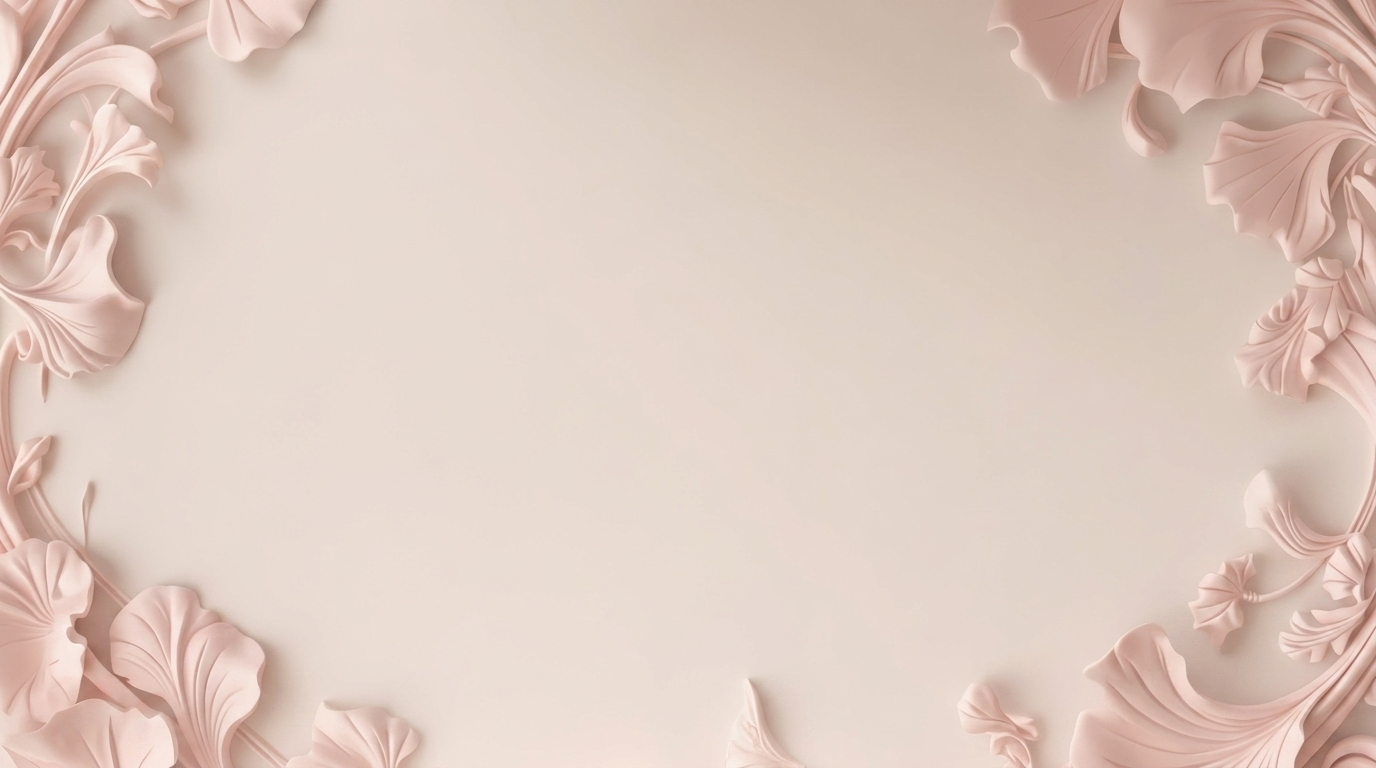
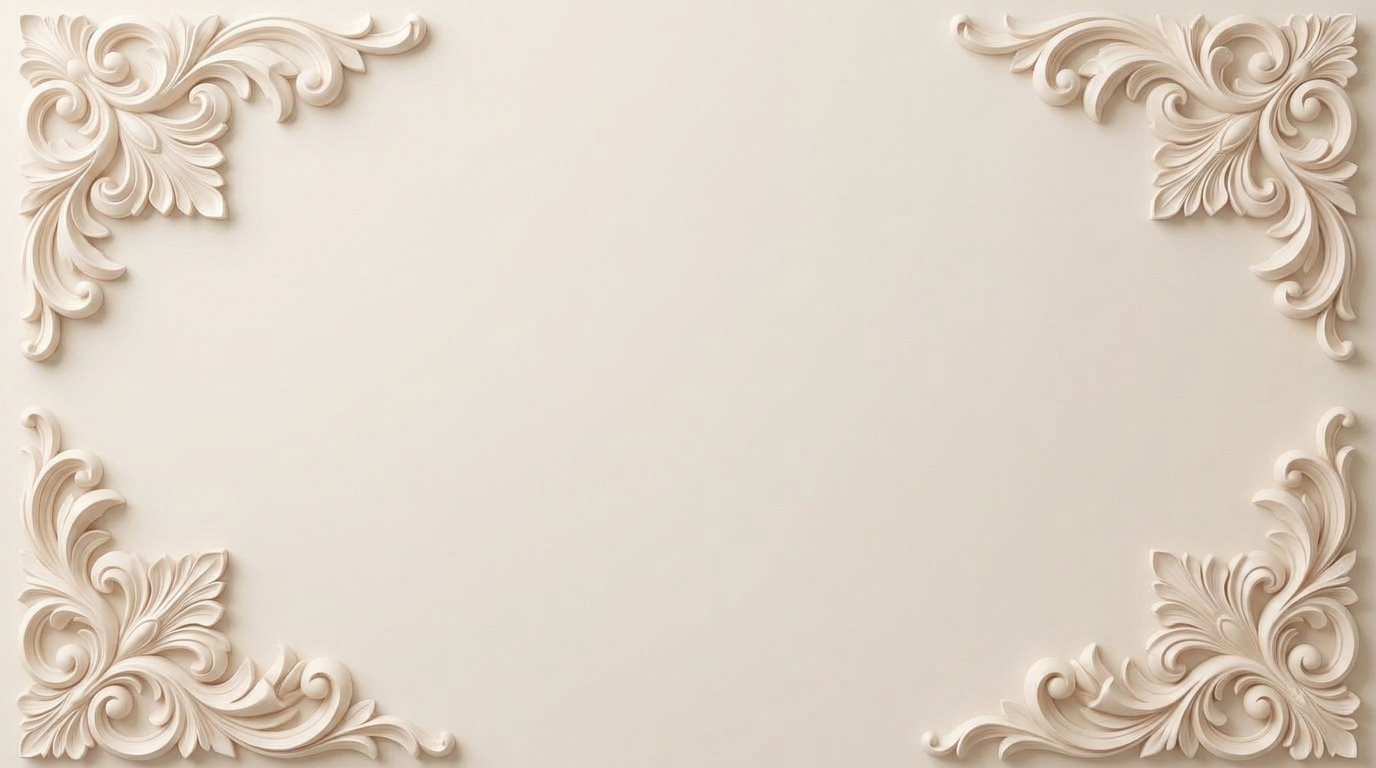
fix: background, content

Changed region(s): [[0.3438, 0.0, 1.0, 1.0], [0.0, 0.0, 0.3438, 1.0], [0.5312, 0.875, 0.5938, 1.0]]

diff --git a/components/InvitationCard.tsx b/components/InvitationCard.tsx
@@ -1,65 +1,99 @@
 'use client';
 import { motion } from 'framer-motion';
+import { useState, useEffect } from 'react';
 
 interface InvitationProps {
   onOpenRsvp: () => void;
 }
 
 export default function InvitationCard({ onOpenRsvp }: InvitationProps) {
+  const [windowDimensions, setWindowDimensions] = useState({ width: 0, height: 0 });
+
+  useEffect(() => {
+    const handleResize = () => {
+      setWindowDimensions({ width: window.innerWidth, height: window.innerHeight });
+    };
+    
+    handleResize();
+    window.addEventListener('resize', handleResize);
+    return () => window.removeEventListener('resize', handleResize);
+  }, []);
+
   return (
     <motion.div 
-      className="min-h-screen w-full mx-auto bg-cover bg-center flex flex-col items-center py-20 px-8 text-center relative"
-      style={{ backgroundImage: "url('/invitation-bg.jpeg')" }} 
+      className="relative min-h-screen w-full flex flex-col items-center justify-center overflow-hidden bg-[#fdfaf9]"
       initial={{ opacity: 0, y: 20 }}
       animate={{ opacity: 1, y: 0 }}
       transition={{ duration: 1, ease: "easeOut", delay: 0.2 }}
     >
-      <h1 className="text-4xl md:text-5xl text-[#c17a86] mb-10 font-medium italic mt-10">
-        Fejesa e Rrezonit dhe Aureles
-      </h1>
-      
-      <div className="text-[#8c7377] text-sm md:text-base leading-relaxed space-y-6 max-w-sm mb-16 font-light">
-        <p>
-          Me shumë dashuri dhe kënaqësi, kemi nderin t’ju ftojmë 
-          të jeni pjesë e mbrëmjes sonë të veçantë të fejesës.
-        </p>
-        {/* <p>
-          Një mbrëmje e bukur, e mbushur me gëzim, muzikë, 
-          valle dhe momente të paharrueshme, të cilat 
-          dëshirojmë t’i ndajmë me njerëzit tanë.
-        </p> */}
-        <p>
-          Prania juaj do ta bëjë këtë natë edhe më të veçantë 
-          dhe do të mbetet një kujtim i bukur për ne.
-        </p>
-        <p className="font-medium italic text-[#c17a86] text-lg pt-4">
-          Me shumë dashuri, ju mirëpresim!
-        </p>
+      {/* SHTRESA 1: Prapavija (Background) e ndarë nga teksti */}
+      <div className="absolute inset-0 w-full h-full pointer-events-none z-0">
+        
+        {/* DESKTOP VIEW: Imazhi normal horizontal */}
+        <img 
+          src="/invitation-bg.jpeg" 
+          alt="Background Desktop" 
+          className="hidden md:block absolute inset-0 w-full h-full object-cover object-center"
+        />
+        
+        {/* MOBILE VIEW: Imazhi i rrotulluar 90 gradë për të ruajtur proporcionet dhe lulet */}
+        {windowDimensions.width > 0 && (
+          <div 
+            className="md:hidden absolute top-1/2 left-1/2 -translate-x-1/2 -translate-y-1/2 rotate-90"
+            style={{ width: `${windowDimensions.height}px`, height: `${windowDimensions.width}px` }}
+          >
+            <img 
+              src="/invitation-bg.jpeg" 
+              alt="Background Mobile" 
+              className="w-full h-full object-cover object-center opacity-80"
+            />
+          </div>
+        )}
       </div>
-      
-      <div className="flex items-center justify-center gap-6 mb-20">
-        <span className="text-xs font-semibold tracking-[0.2em] text-[#a87c82]">E MARTË</span>
-        <div className="flex flex-col items-center border-x px-6 border-[#e8d5d8]">
-          <span className="text-5xl text-[#c17a86] font-light mb-1">6</span>
-          <span className="text-[10px] tracking-widest text-[#a87c82]">ORA 18:00</span>
+
+      {/* SHTRESA 2: Përmbajtja e tekstit e qendërzuar mbi prapavijë */}
+      <div className="relative z-10 flex flex-col items-center text-center px-8 md:px-12 py-16 w-full max-w-lg mx-auto h-full justify-center">
+        
+        <div className="text-[#a7999b] text-[13px] md:text-base leading-relaxed space-y-6 mb-3 mt-12 font-light px-4">
+            <p>NGA NJË TAKIM I BUKUR, NË NJË HISTORI DASHURIE PËRJETË</p>
+            <p>JU FTOJMË ME ZEMËR TË FESTONI ME NE FILLIMIN E JETËS SONË SË BASHKU</p>
         </div>
-        <span className="text-xs font-semibold tracking-[0.2em] text-[#a87c82]">TETOR 2026</span>
-      </div>
 
-      <div className="flex flex-col items-center space-y-1 mb-16 text-[#a87c82]">
-        <span className="text-sm tracking-widest">CITY GRILL</span>
-        <span className="text-xs tracking-widest">VUSHTRRI</span>
-      </div>
+        <h1 className="text-4xl md:text-5xl text-[#b8979c] mb-5 mt-10 font-medium italic">
+          Rrezon <br /> & <br /> Aurela
+        </h1>
 
-      <button 
-        onClick={onOpenRsvp}
-        className="flex flex-col items-center group cursor-pointer bg-white/40 px-8 py-4 rounded-xl backdrop-blur-sm border border-white/50 shadow-sm"
-      >
-        <span className="text-[10px] tracking-[0.2em] text-[#a87c82] mb-1">KLIKO KËTU</span>
-        <span className="text-sm tracking-[0.1em] text-[#c17a86] border-b border-[#c17a86] pb-1 group-hover:opacity-70 transition-opacity">
-          KONFIRMO PJESËMARRJEN
-        </span>
-      </button>
+        <div className="text-[#a7999b] text-[13px] md:text-base leading-relaxed space-y-6 mb-3 mt-12 font-light px-4">
+            <p>6 TETOR 2026 | NË 19:00</p>
+            <p>CITY GRILL | VUSHTRRI</p>
+            <p>PRITJA E MUSAFIRËVE 18:00 - 18:30</p>
+        </div>
+        
+        {/* <div className="flex items-center justify-center gap-4 md:gap-6 mb-16">
+          <span className="text-[10px] md:text-xs font-semibold tracking-[0.2em] text-[#b8979c]">E MARTË</span>
+          <div className="flex flex-col items-center border-x px-4 md:px-6 border-[#e8d5d8]">
+            <span className="text-5xl md:text-6xl text-[#b8979c] font-light mb-1">6</span>
+            <span className="text-[8px] md:text-[10px] tracking-widest text-[#a87c82] whitespace-nowrap">PRITJA E MYSAFIRËVE 18:00 - 18:30</span>
+          </div>
+          <span className="text-[10px] md:text-xs font-semibold tracking-[0.2em] text-[#b8979c]">TETOR 2026</span>
+        </div>
+
+        <div className="flex flex-col items-center space-y-2 mb-16 text-[#a87c82]">
+          <span className="text-sm tracking-widest font-medium">CITY GRILL</span>
+          <span className="text-[10px] tracking-widest">VUSHTRRI</span>
+        </div> */}
+
+        <button 
+          onClick={onOpenRsvp}
+          className="flex flex-col items-center group cursor-pointer bg-white/60 px-10 py-5 rounded-xl backdrop-blur-md border border-[#e8d5d8] shadow-[0_4px_20px_rgba(0,0,0,0.05)] hover:bg-white/80 transition-all"
+        >
+          <span className="text-[9px] tracking-[0.3em] text-[#a87c82] mb-2 font-semibold">KLIKO KËTU</span>
+          <span className="text-xs tracking-[0.15em] text-[#c17a86] font-medium border-b border-[#c17a86] pb-1 group-hover:opacity-70 transition-opacity">
+            KONFIRMO PJESËMARRJEN
+          </span>
+        </button>
+
+      </div>
     </motion.div>
   );
 }

diff --git a/components/Envelope.tsx b/components/Envelope.tsx
@@ -47,7 +47,7 @@ export default function Envelope({ onOpen }: EnvelopeProps) {
             <div className="absolute inset-0 w-full h-full overflow-hidden pointer-events-none">
               {/* DESKTOP */}
               <img
-                src="/envelope-bg.png"
+                src="/envelope-bg.jpeg"
                 alt="Zarfi"
                 className="hidden md:block absolute inset-0 w-full h-full object-cover object-center"
               />
@@ -55,7 +55,7 @@ export default function Envelope({ onOpen }: EnvelopeProps) {
               {/* MOBILE */}
               {windowDimensions.width > 0 && (
                 <div
-                  className="md:hidden absolute top-90 left-1/2 -translate-x-1/2 -translate-y-1/2 rotate-90"
+                  className="md:hidden absolute top-120 left-1/2 -translate-x-1/2 -translate-y-1/2 rotate-90"
                   style={{
                     // width: `${windowDimensions.height}px`,
                     width: `250%`,
@@ -63,7 +63,7 @@ export default function Envelope({ onOpen }: EnvelopeProps) {
                   }}
                 >
                   <img
-                    src="/envelope-bg.png"
+                    src="/envelope-bg.jpeg"
                     alt="Zarfi Mobile"
                     className="w-full h-full object-cover object-center"
                   />
@@ -73,7 +73,7 @@ export default function Envelope({ onOpen }: EnvelopeProps) {
 
             {/* VULA E DYLLIT */}
             <motion.div
-              className="absolute top-1/2 left-1/2 -translate-x-1/2 -translate-y-1/2 mt-[-30px] ml-[-40px] md:mt-45 z-10 flex items-center justify-center w-72 h-72 md:w-50 md:h-50"
+              className="absolute top-1/2 left-1/2 -translate-x-1/2 -translate-y-1/2 mt-[30px] ml-[-30px] md:mt-45 z-10 flex items-center justify-center w-72 h-72 md:w-50 md:h-50"
               whileHover={{ scale: 1.05 }}
               whileTap={{ scale: 0.95 }}
               // Vula "thyhet" (zhduket më shpejt se zarfi) për t'i dhënë rrugë hapjes
@@ -92,11 +92,11 @@ export default function Envelope({ onOpen }: EnvelopeProps) {
 
             {/* Teksti Informues */}
             <motion.div
-              className="absolute inset-0 flex flex-col items-center justify-end pb-20 pointer-events-none"
+              className="absolute inset-0 flex flex-col items-center justify-end pb-25 pointer-events-none"
               animate={{ opacity: isOpening ? 0 : 1 }}
               transition={{ duration: 0.2 }}
             >
-              <p className="text-[#8c7377] text-[10px] md:text-xs font-serif font-medium tracking-[0.3em] uppercase mix-blend-color-burn">
+              <p className="text-[#776568] text-[14px] md:text-xs font-serif font-medium tracking-[0.3em] uppercase mix-blend-color-burn">
                 Kliko për të hapur
               </p>
             </motion.div>
